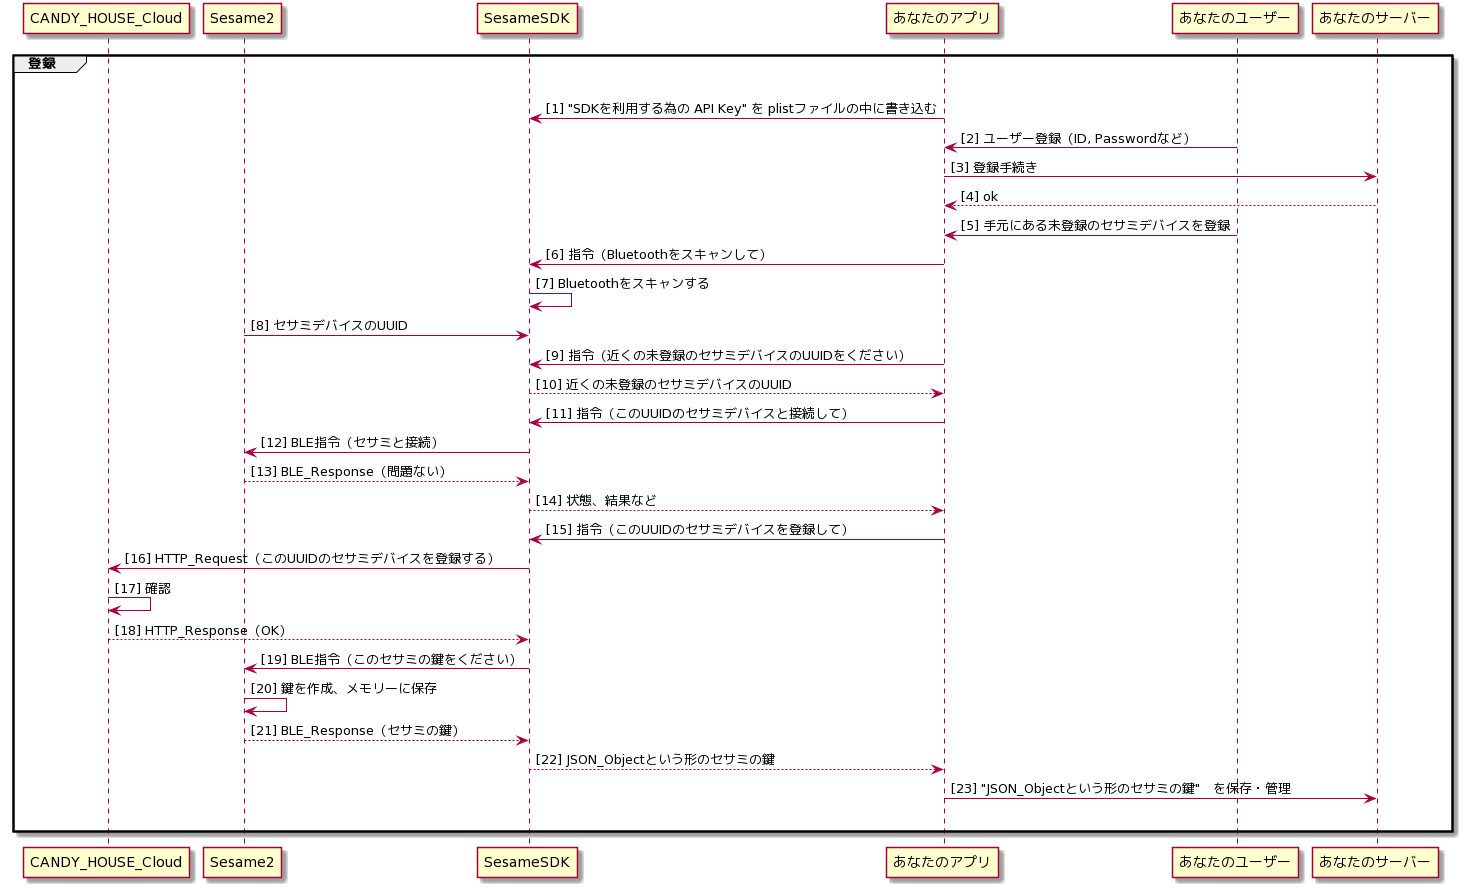
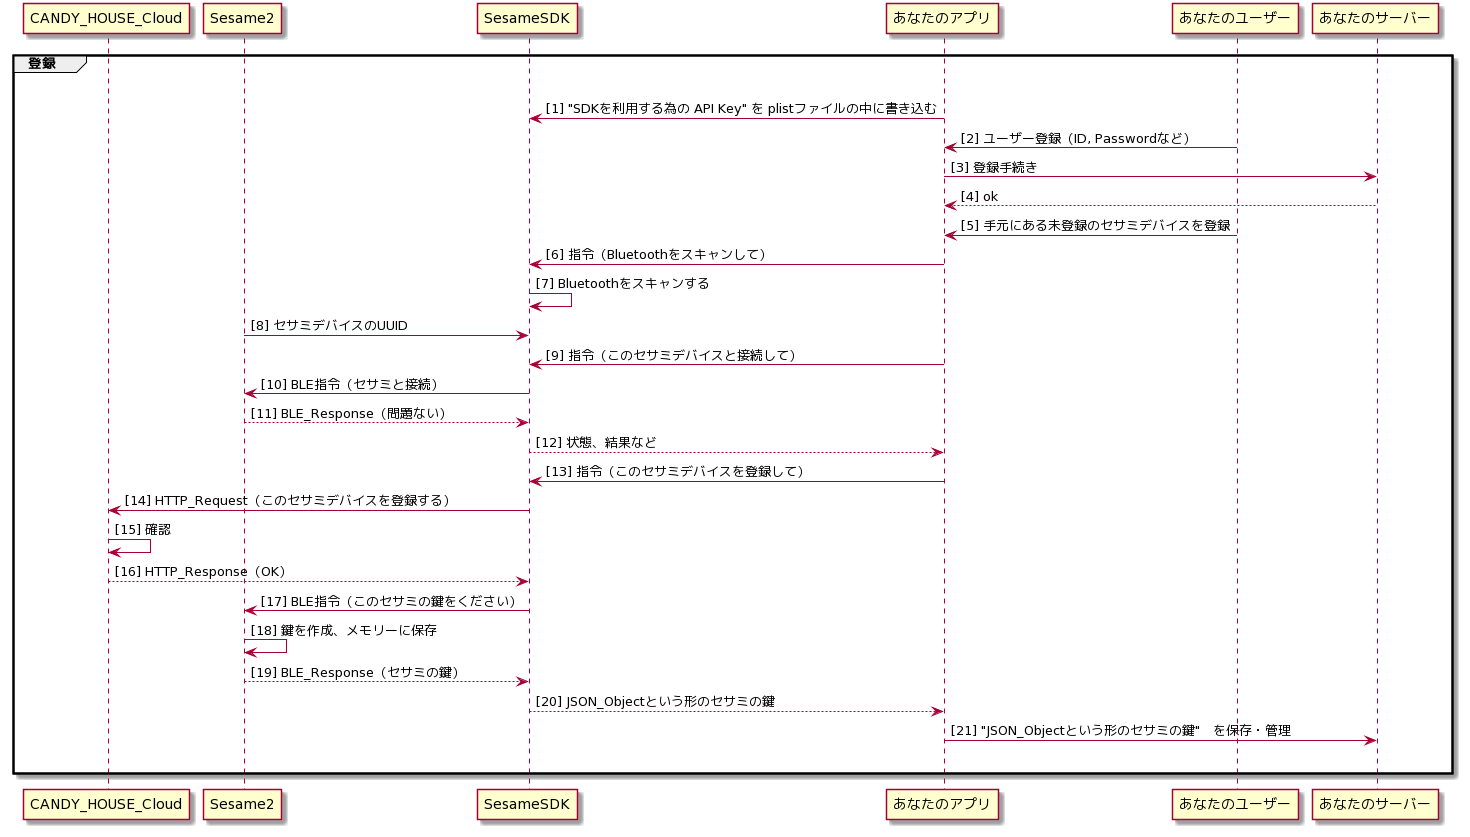
updated assets

diff --git a/PlantUML.md b/PlantUML.md
@@ -16,21 +16,19 @@ participant あなたのサーバー
 あなたのアプリ -> SesameSDK : [6] 指令（Bluetoothをスキャンして）
 SesameSDK -> SesameSDK : [7] Bluetoothをスキャンする
 Sesame2 -> SesameSDK : [8] セサミデバイスのUUID
-あなたのアプリ -> SesameSDK : [9] 指令（近くの未登録のセサミデバイスのUUIDをください）
-SesameSDK --> あなたのアプリ : [10] 近くの未登録のセサミデバイスのUUID
-あなたのアプリ -> SesameSDK : [11] 指令（このUUIDのセサミデバイスと接続して）
-SesameSDK -> Sesame2: [12] BLE指令（セサミと接続）
-Sesame2 --> SesameSDK: [13] BLE_Response（問題ない）
-SesameSDK --> あなたのアプリ : [14] 状態、結果など
-あなたのアプリ -> SesameSDK : [15] 指令（このUUIDのセサミデバイスを登録して）
-SesameSDK -> CANDY_HOUSE_Cloud: [16] HTTP_Request（このUUIDのセサミデバイスを登録する）
-CANDY_HOUSE_Cloud -> CANDY_HOUSE_Cloud: [17] 確認
-CANDY_HOUSE_Cloud --> SesameSDK: [18] HTTP_Response（OK）
-SesameSDK -> Sesame2: [19] BLE指令（このセサミの鍵をください）
-Sesame2 -> Sesame2: [20] 鍵を作成、メモリーに保存
-Sesame2 --> SesameSDK: [21] BLE_Response（セサミの鍵）
-SesameSDK --> あなたのアプリ : [22] JSON_Objectという形のセサミの鍵
-あなたのアプリ -> あなたのサーバー : [23] "JSON_Objectという形のセサミの鍵"　を保存・管理
+あなたのアプリ -> SesameSDK : [9] 指令（このセサミデバイスと接続して）
+SesameSDK -> Sesame2: [10] BLE指令（セサミと接続）
+Sesame2 --> SesameSDK: [11] BLE_Response（問題ない）
+SesameSDK --> あなたのアプリ : [12] 状態、結果など
+あなたのアプリ -> SesameSDK : [13] 指令（このセサミデバイスを登録して）
+SesameSDK -> CANDY_HOUSE_Cloud: [14] HTTP_Request（このセサミデバイスを登録する）
+CANDY_HOUSE_Cloud -> CANDY_HOUSE_Cloud: [15] 確認
+CANDY_HOUSE_Cloud --> SesameSDK: [16] HTTP_Response（OK）
+SesameSDK -> Sesame2: [17] BLE指令（このセサミの鍵をください）
+Sesame2 -> Sesame2: [18] 鍵を作成、メモリーに保存
+Sesame2 --> SesameSDK: [19] BLE_Response（セサミの鍵）
+SesameSDK --> あなたのアプリ : [20] JSON_Objectという形のセサミの鍵
+あなたのアプリ -> あなたのサーバー : [21] "JSON_Objectという形のセサミの鍵"　を保存・管理
 |||
 end
 @enduml
